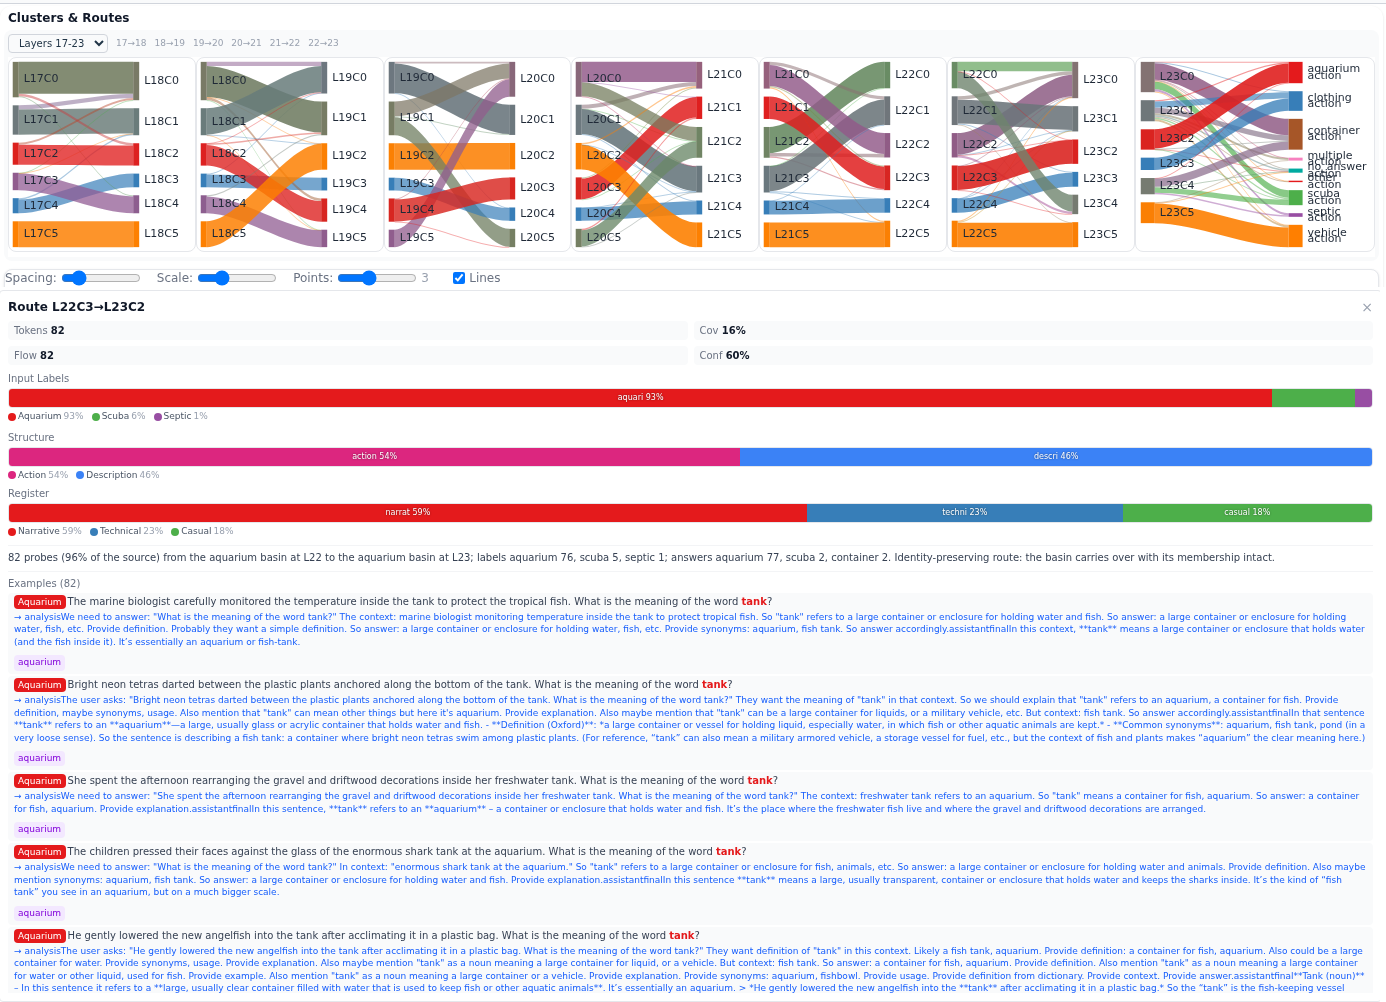
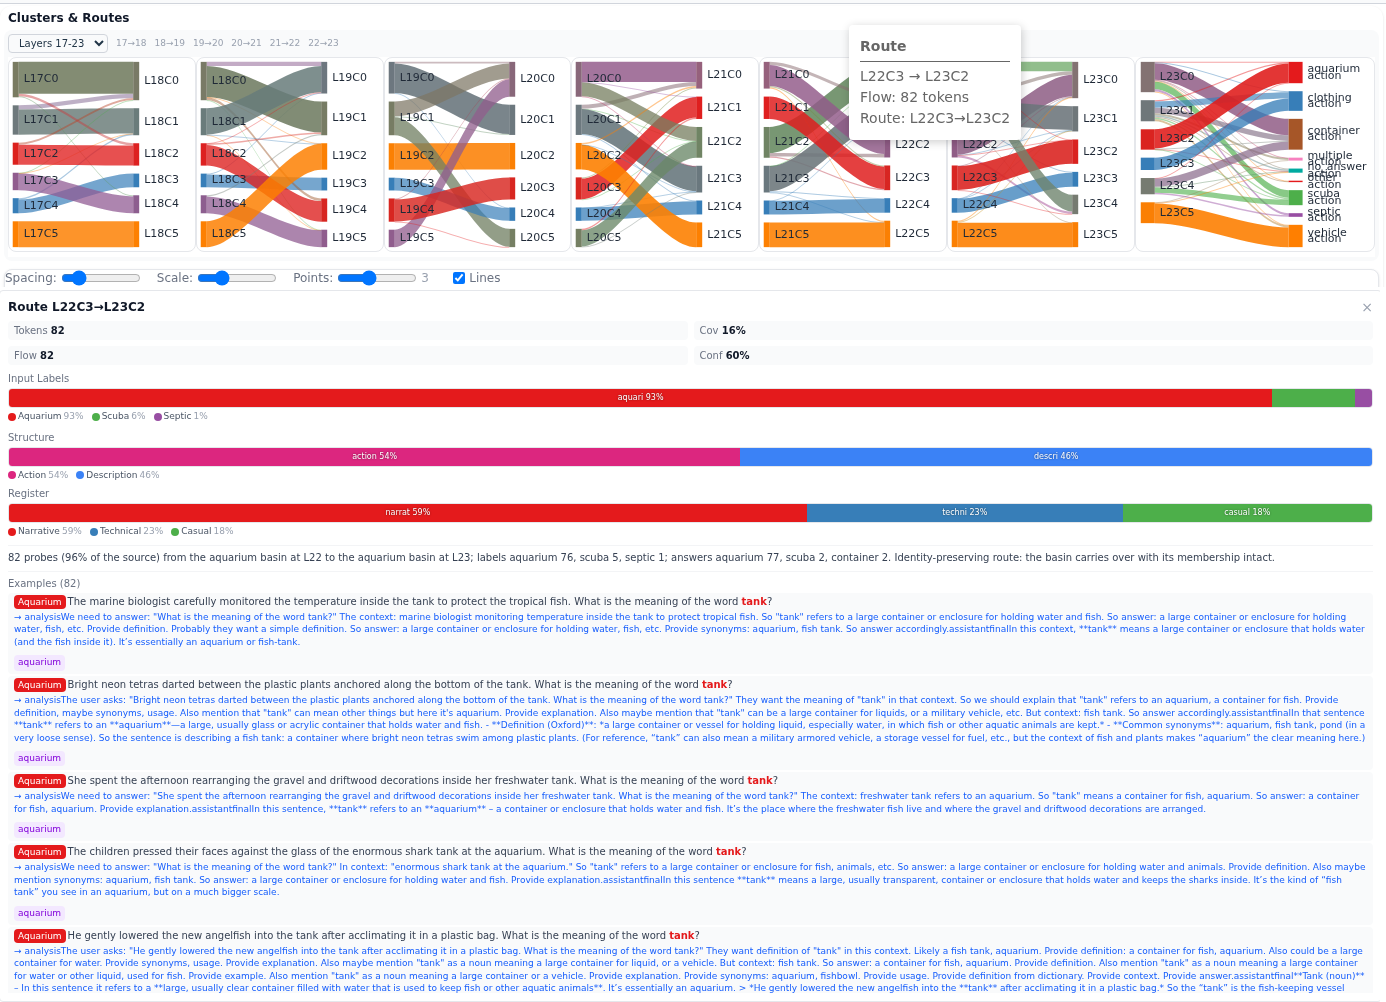
README: hero shows the full workspace with a cluster selected; route shot keeps the hovered ribbon highlighted

Changed region(s): [[0.5895, 0.0309, 0.7446, 0.1547]]

diff --git a/README.md b/README.md
@@ -20,7 +20,7 @@ The March 2026 hackathon paper that introduced the platform is in [`paper/main.p
 
 ## The platform
 
-![MUDApp — the bus stop scenario after the agent has examined the person, friend/foe routing across layers 17–23](docs/images/hero-mudapp-bus-stop.png)
+![MUDApp — the bus stop scenario after the agent has examined the person, layers 17–23, with the 99%-foe cluster L23C1 selected and its card open](docs/images/hero-mudapp-bus-stop.png)
 
 The main view is one page. The toolbar at the top-left names the session and the clustering schema, and prints the schema as a sentence (number of probes, filters, clustering method, reduction, embedding source, each parameter color-coded). Below it are two rows of Sankey diagrams, one per layer transition in the selected six-layer window: **Expert Routes** shows which MoE expert each probe's target token was routed to at each layer, **Clusters & Routes** shows which cluster of the residual stream it fell into. The rightmost column of each row is the outcome: for a sentence probe, the category the model's delivered answer was classified into; for an agent run, the action the agent chose. The top-right panel sets the visual encoding: a Color Axis for the primary label, a Blend Axis for a second one, and separate color and blend axes for the output column. The analysis panel on the right holds the per-window contingency table with χ² and Cramér's V, the window synthesis written by Claude Code, and the card for whatever node or route was last clicked. The MUD terminal sits at the bottom-left for live agent runs.
 
@@ -30,9 +30,9 @@ The three shots below come from a September 2026 recapture of two sentence probe
 
 ![Cluster-route Sankeys for layers 17–23 above the stepped UMAP trajectories of the five senses of "tank"](docs/images/tour-umap-tank.png)
 
-**Route cards.** Clicking a ribbon in a Sankey selects that route and opens its card. The card gives the route's token count, coverage and confidence, stacked bars for the composition of its members on the design label and on every secondary category (here structure and register), a description written by Claude Code through the analyze skill, and the member sentences with the model's full completion, reasoning channel followed by the delivered answer. The route shown is the aquarium basin carrying itself from layer 22 to 23: 82 sentences, 93% aquarium-labeled, and 77 of them answered "aquarium".
+**Route cards.** Hovering a ribbon in a Sankey highlights that route and shows its flow; clicking it opens the card. The card gives the route's token count, coverage and confidence, stacked bars for the composition of its members on the design label and on every secondary category (here structure and register), a description written by Claude Code through the analyze skill, and the member sentences with the model's full completion, reasoning channel followed by the delivered answer. The route shown is the aquarium basin carrying itself from layer 22 to 23: 82 sentences, 93% aquarium-labeled, and 77 of them answered "aquarium".
 
-![The selected route highlighted in the last transition, with its card: composition bars, description, and example completions](docs/images/tour-route-card-tank.png)
+![The hovered route highlighted in the last transition with its tooltip, and its card below: composition bars, description, and example completions](docs/images/tour-route-card-tank.png)
 
 **Color blending.** The probe is the threatened-framing set: 400 sentences that use "threatened" in either a roleplay frame (fantasy, science fiction, myth) or a factual one (courts, politics, crime), balanced on grammatical voice, scale and specificity, each followed by "Is the word threatened used here in fiction or in a factual account?". The Color Axis carries the frame and the Blend Axis carries voice, which gives the four corner colors in the legend. Each Sankey node takes a weighted mix of its members' colors, so a cluster pure on both axes is saturated and a mixed cluster sits between, and the trajectory plot draws every probe's path in the same blended color. The blend exposes structure the primary axis hides: the six late-layer clusters are frame by voice, three roleplay and three factual, and nearly every one is also pure on active versus passive. Voice was chosen by trying each balanced axis in the toolbar and keeping the one whose blended nodes separated most visibly, which is what the feature is for.
 
